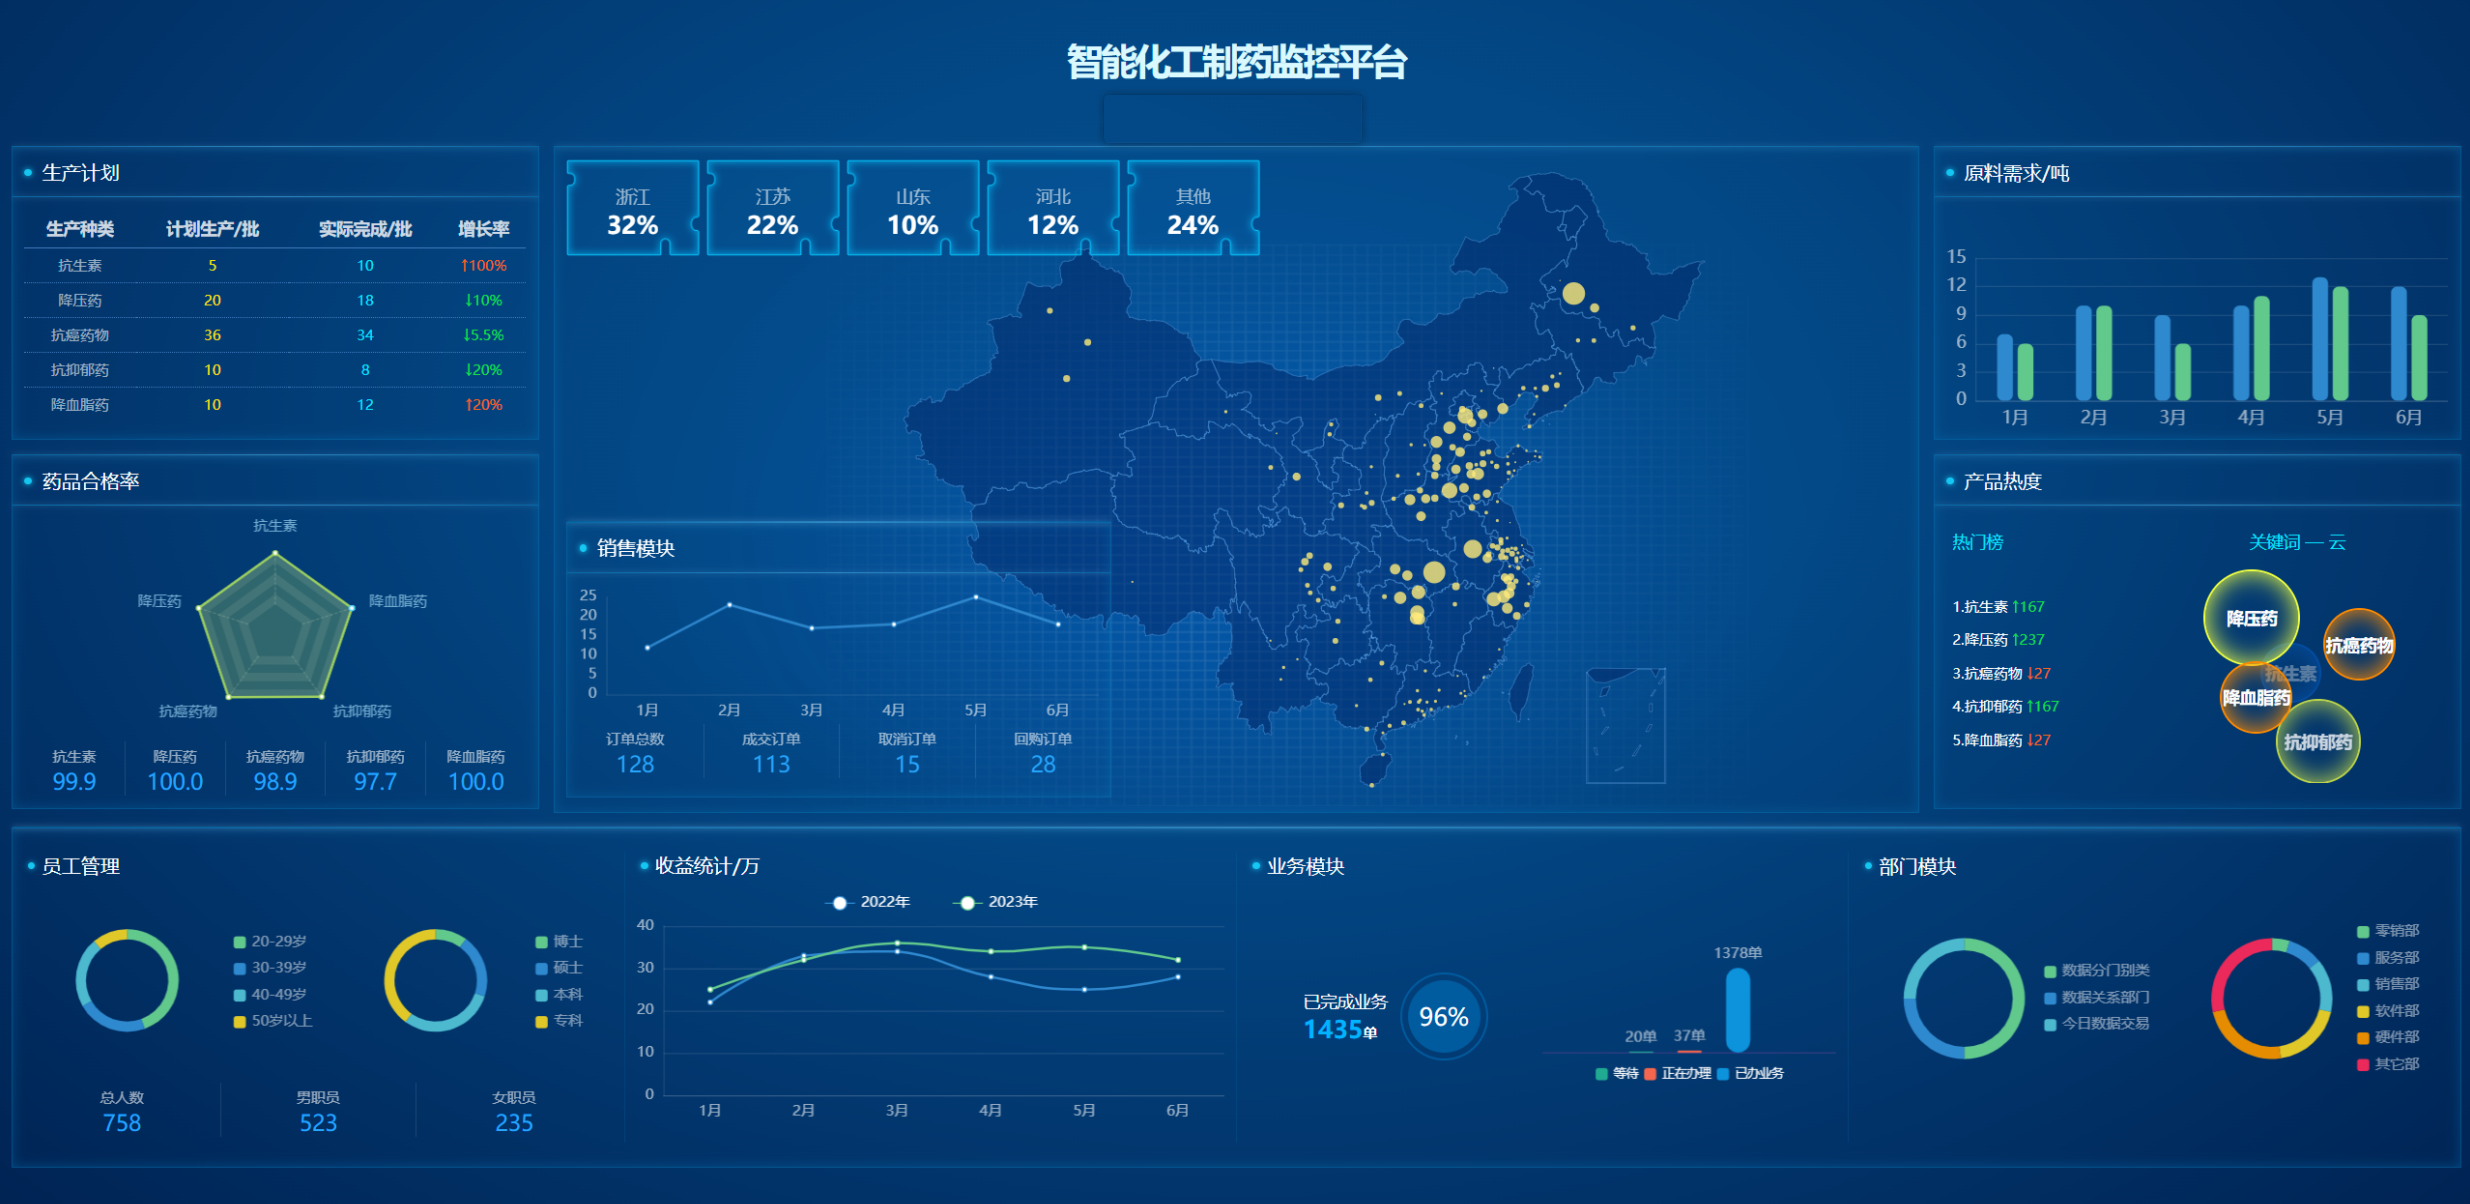
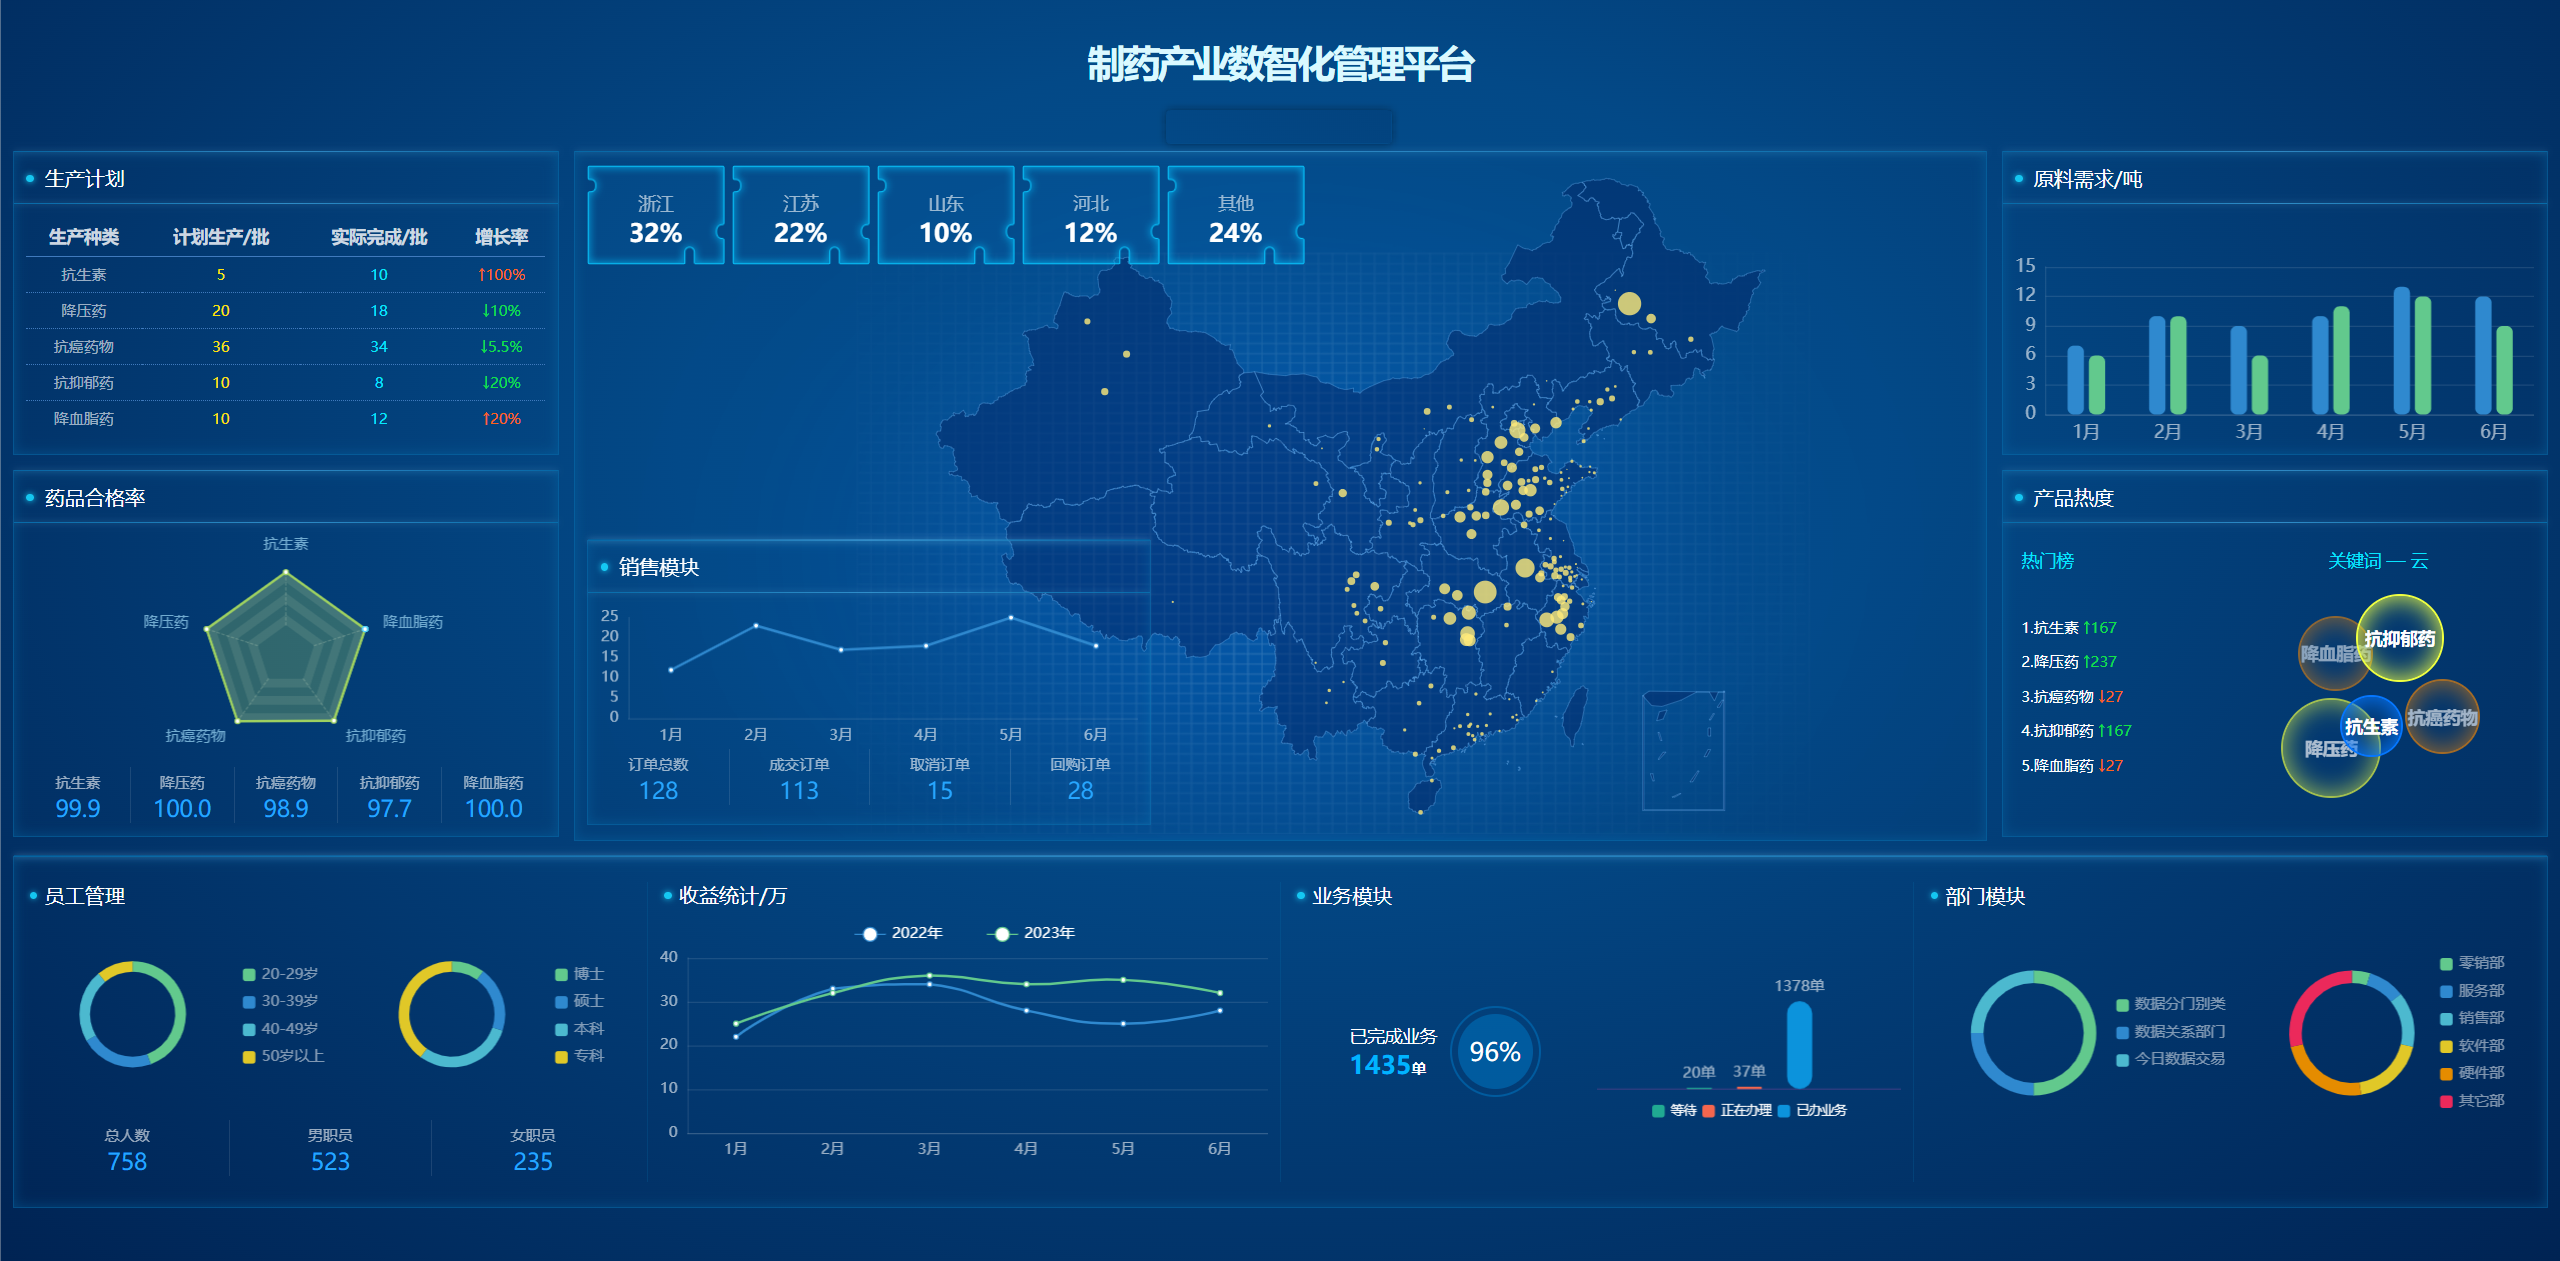
update

diff --git a/vue/src/components/Aside.vue b/vue/src/components/Aside.vue
@@ -3,7 +3,7 @@
         text-color="#fff" active-text-color="#ffd04b" :collapse-transition="false" :collapse="isCollapse" router>
         <div style="height: 60px; line-height: 60px;">
             <img src="../assets/icon.jpg" alt="" style="width: 30px; height: 30px; position: relative; top: 10px;">
-            <b style="color: white;" v-show="logoTextShow">智能化工制药管理系统</b>
+            <b style="color: white; font-size: 15px;" v-show="logoTextShow">制药产业数智化管理平台</b>
         </div>
         <div v-for="item in menus" :key="item.id">
             <div v-if="item.path">

diff --git a/vue/public/index.html b/vue/public/index.html
@@ -6,7 +6,7 @@
     <meta http-equiv="X-UA-Compatible" content="IE=edge">
     <meta name="viewport" content="width=device-width,initial-scale=1.0">
     <link rel="icon" href="<%= BASE_URL %>icon.ico">
-    <title>智能化工制药管理系统</title>
+    <title>制药产业数智化管理平台</title>
 </head>
 
 <body>

diff --git a/vue/src/views/show/index.html b/vue/src/views/show/index.html
@@ -15,7 +15,7 @@
 
 <body>
     <div class="head clearfix">
-        <h1 style="margin: auto;">智能化工制药监控平台</h1>
+        <h1 style="margin: auto;">制药产业数智化管理平台</h1>
         <script>
             var t = null;
             t = setTimeout(time, 1000);//開始运行

diff --git a/pure-design/src/main/java/com/qingge/springboot/utils/CodeGenerator.java b/pure-design/src/main/java/com/qingge/springboot/utils/CodeGenerator.java
@@ -5,11 +5,6 @@ import com.baomidou.mybatisplus.generator.config.OutputFile;
 
 import java.util.Collections;
 
-/**
- * mp代码生成器
- * by 青哥哥
- * @since 2022-01-26
- */
 public class CodeGenerator {
 
     public static void main(String[] args) {
@@ -17,17 +12,17 @@ public class CodeGenerator {
     }
 
     private static void generate() {
-        FastAutoGenerator.create("jdbc:mysql://localhost:3306/qing?serverTimezone=GMT%2b8", "root", "123456")
+        FastAutoGenerator.create("jdbc:mysql://localhost:3306/qing?serverTimezone=GMT%2b8", "root", "071227")
                 .globalConfig(builder -> {
-                    builder.author("青哥哥") // 设置作者
+                    builder.author("") // 设置作者
                             .enableSwagger() // 开启 swagger 模式
                             .fileOverride() // 覆盖已生成文件
-                            .outputDir("D:\\代码\\小白做毕设2022\\springboot\\src\\main\\java\\"); // 指定输出目录
+                            .outputDir(""); // 指定输出目录
                 })
                 .packageConfig(builder -> {
                     builder.parent("com.qingge.springboot") // 设置父包名
                             .moduleName(null) // 设置父包模块名
-                            .pathInfo(Collections.singletonMap(OutputFile.mapperXml, "D:\\代码\\小白做毕设2022\\springboot\\src\\main\\resources\\mapper\\")); // 设置mapperXml生成路径
+                            .pathInfo(Collections.singletonMap(OutputFile.mapperXml, "")); // 设置mapperXml生成路径
                 })
                 .strategyConfig(builder -> {
                     builder.entityBuilder().enableLombok();

diff --git a/pure-design/src/main/java/com/qingge/springboot/config/SwaggerConfig.java b/pure-design/src/main/java/com/qingge/springboot/config/SwaggerConfig.java
@@ -46,9 +46,9 @@ public class SwaggerConfig {
     private ApiInfo apiInfo(String title, String version) {
         return new ApiInfoBuilder()
                 .title(title)
-                .description("更多请关注: https://blog.csdn.net/xqnode")
-                .termsOfServiceUrl("https://blog.csdn.net/xqnode")
-                .contact(new Contact("xqnode", "https://blog.csdn.net/xqnode", "xiaqingweb@163.com"))
+                .description("")
+                .termsOfServiceUrl("")
+                .contact(new Contact("", "", ""))
                 .version(version)
                 .build();
     }

diff --git a/pure-design/src/main/java/com/qingge/springboot/service/impl/BuildingServiceImpl.java b/pure-design/src/main/java/com/qingge/springboot/service/impl/BuildingServiceImpl.java
@@ -10,9 +10,6 @@ import org.springframework.stereotype.Service;
  * <p>
  *  服务实现类
  * </p>
- *
- * @author 青哥哥
- * @since 2022-05-23
  */
 @Service
 public class BuildingServiceImpl extends ServiceImpl<BuildingMapper, Building> implements IBuildingService {

diff --git a/pure-design/src/main/java/com/qingge/springboot/service/impl/ArticleServiceImpl.java b/pure-design/src/main/java/com/qingge/springboot/service/impl/ArticleServiceImpl.java
@@ -10,9 +10,6 @@ import org.springframework.stereotype.Service;
  * <p>
  *  服务实现类
  * </p>
- *
- * @author 青哥哥
- * @since 2022-03-22
  */
 @Service
 public class ArticleServiceImpl extends ServiceImpl<ArticleMapper, Article> implements IArticleService {

diff --git a/pure-design/src/main/java/com/qingge/springboot/service/impl/CourseServiceImpl.java b/pure-design/src/main/java/com/qingge/springboot/service/impl/CourseServiceImpl.java
@@ -14,9 +14,6 @@ import javax.annotation.Resource;
  * <p>
  *  服务实现类
  * </p>
- *
- * @author 青哥哥
- * @since 2022-03-03
  */
 @Service
 public class CourseServiceImpl extends ServiceImpl<CourseMapper, Course> implements ICourseService {

diff --git a/pure-design/src/main/java/com/qingge/springboot/service/impl/MenuServiceImpl.java b/pure-design/src/main/java/com/qingge/springboot/service/impl/MenuServiceImpl.java
@@ -15,9 +15,6 @@ import java.util.stream.Collectors;
  * <p>
  *  服务实现类
  * </p>
- *
- * @author 青哥哥
- * @since 2022-02-10
  */
 @Service
 public class MenuServiceImpl extends ServiceImpl<MenuMapper, Menu> implements IMenuService {

diff --git a/pure-design/src/main/java/com/qingge/springboot/service/impl/CommentServiceImpl.java b/pure-design/src/main/java/com/qingge/springboot/service/impl/CommentServiceImpl.java
@@ -13,9 +13,6 @@ import java.util.List;
  * <p>
  *  服务实现类
  * </p>
- *
- * @author 青哥哥
- * @since 2022-03-22
  */
 @Service
 public class CommentServiceImpl extends ServiceImpl<CommentMapper, Comment> implements ICommentService {

diff --git a/pure-design/src/main/java/com/qingge/springboot/service/impl/RoleServiceImpl.java b/pure-design/src/main/java/com/qingge/springboot/service/impl/RoleServiceImpl.java
@@ -20,9 +20,6 @@ import java.util.List;
  * <p>
  *  服务实现类
  * </p>
- *
- * @author 青哥哥
- * @since 2022-02-10
  */
 @Service
 public class RoleServiceImpl extends ServiceImpl<RoleMapper, Role> implements IRoleService {

diff --git a/pure-design/src/main/java/com/qingge/springboot/service/impl/UserServiceImpl.java b/pure-design/src/main/java/com/qingge/springboot/service/impl/UserServiceImpl.java
@@ -31,9 +31,6 @@ import java.util.List;
  * <p>
  *  服务实现类
  * </p>
- *
- * @author 青哥哥
- * @since 2022-01-26
  */
 @Service
 public class UserServiceImpl extends ServiceImpl<UserMapper, User> implements IUserService {
